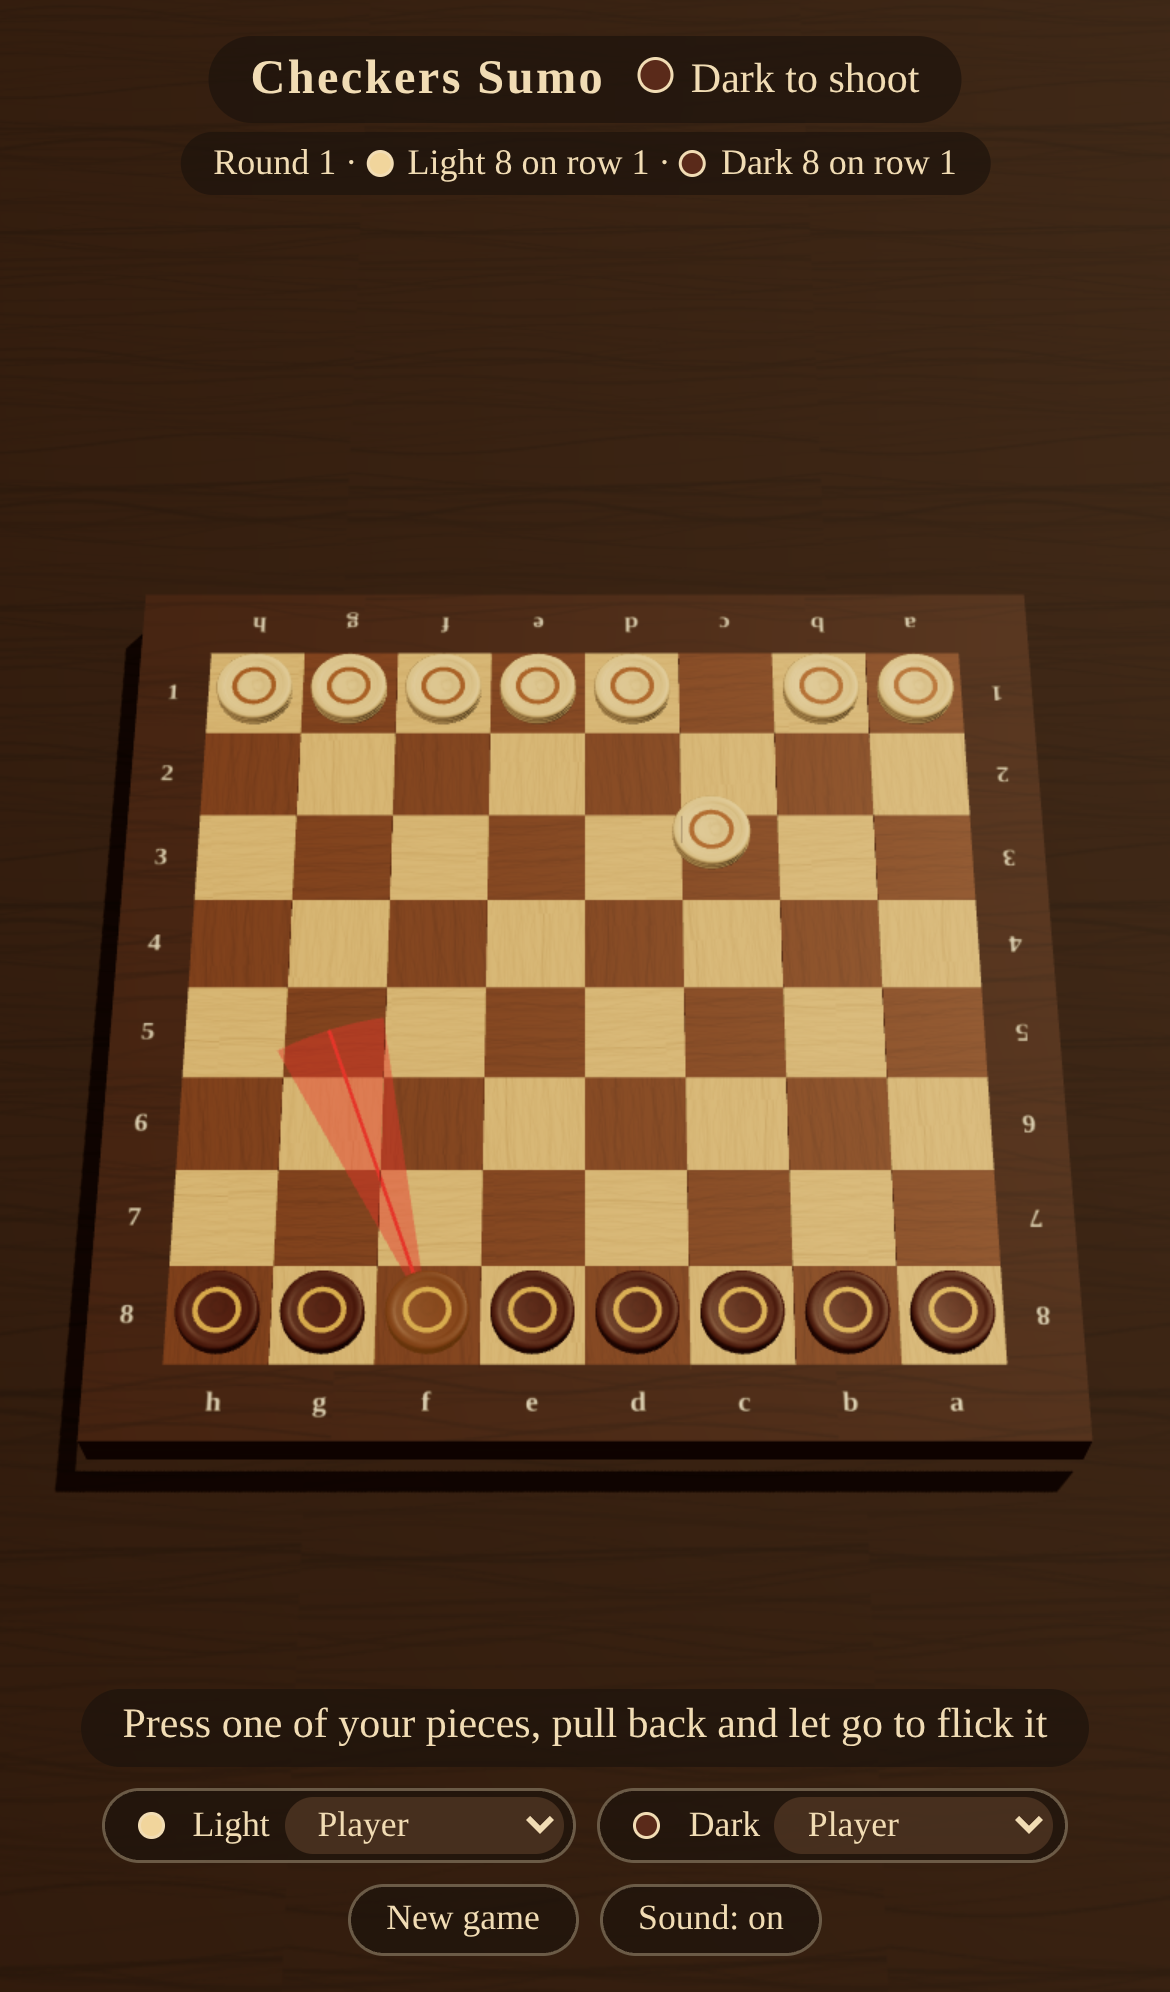
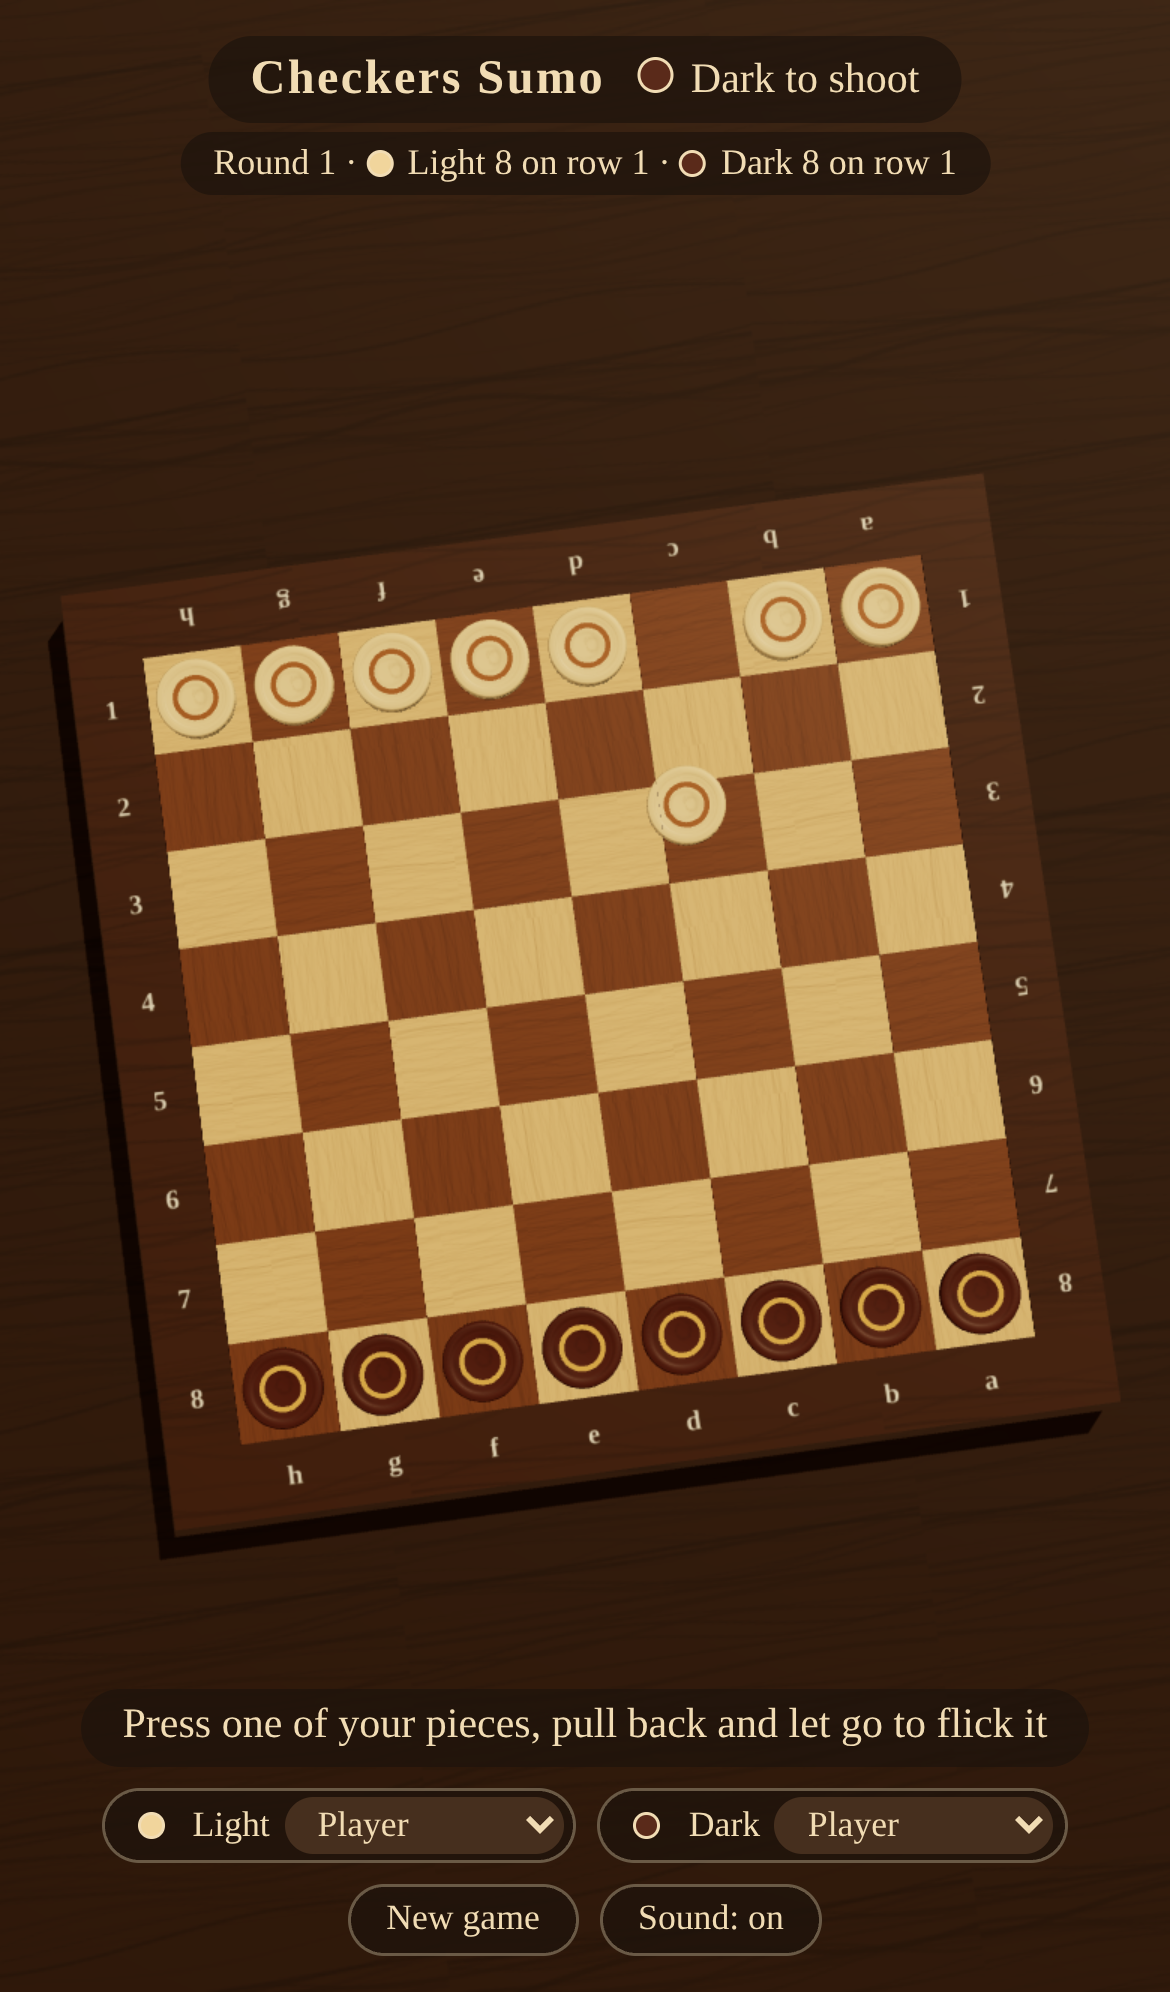
Widen the flick spread, let the loser open the next round, fix mobile board flicker (#4)
* Widen the flick spread, let the loser open the next round, add a bot tournament

- Every flick now scatters up to 5° either way at the softest and 15° at full power
  (was 3° to 10°); the aim sector follows the same setting.
- The loser of a round shoots first in the next one, so a winner cannot sweep round after
  round without the opponent getting a shot.
- Describe the game as Checkers Sumo only, and add a test that keeps the old historical name
  out of every tracked file in any spelling.
- scripts/tournament.js (npm run tournament) plays bot against bot headlessly.

Claude-Session: https://claude.ai/code/session_015uFG4wvmajGJfzZy4KP3Be

* Stop the board flickering in stripes on phones

The frame was one solid block under the cells, its top 0.001 below theirs. Phone GPUs often
keep depth too coarsely to tell those surfaces apart, so the frame showed through in stripes
that moved with the camera. The frame is now a ring around the cells with a hidden base below
them, and the labels, aim sector and checker inlays get a depth offset for the same reason.

Claude-Session: https://claude.ai/code/session_015uFG4wvmajGJfzZy4KP3Be

* Make the Medium bot test repeatable

Medium scores shots by averaging randomly scattered imagined flicks. With the wider spread a
lucky sample now and then favoured an off-centre shot that misses when replayed exactly, so the
test failed about once in 40 runs. It now uses a fixed random sequence.
[…]

Changed region(s): [[0.0308, 0.249, 0.9538, 0.7781]]

diff --git a/scripts/tournament.js b/scripts/tournament.js
@@ -1,0 +1,74 @@
+// Plays bot against bot without rendering and prints the score.
+// Usage: node scripts/tournament.js [games=50] [levelA=medium] [levelB=easy]
+import { availableParallelism } from 'node:os';
+import { Worker, isMainThread, parentPort, workerData } from 'node:worker_threads';
+import { DARK, LIGHT } from '../src/game/constants.js';
+import { DRAW, newMatch, nextRound, playShot } from '../src/game/rules.js';
+import { bestShot, fumbleAim } from '../src/players/bot.js';
+
+// A game that runs this long is stuck (say, two pieces that keep missing each other).
+const MAX_SHOTS = 2000;
+
+function playGame(levels) {
+  let state = newMatch();
+  let shots = 0;
+  let replays = 0;
+  while (!state.matchWinner) {
+    if (state.roundWinner) {
+      if (state.roundWinner === DRAW) replays++;
+      state = nextRound(state);
+    }
+    if (++shots > MAX_SHOTS) return { winner: null, shots, replays, rounds: state.round };
+    const level = levels[state.turn];
+    const best = bestShot(state, level);
+    state = playShot(state, fumbleAim(best.shot, level)).state;
+  }
+  return { winner: state.matchWinner, shots, replays, rounds: state.round };
+}
+
+if (!isMainThread) {
+  parentPort.on('message', (game) => {
+    if (game === null) return process.exit(0);
+    const { a, b } = workerData;
+    // Alternate who plays Light, and so who shoots first.
+    const levels = game % 2 === 0 ? { [LIGHT]: a, [DARK]: b } : { [LIGHT]: b, [DARK]: a };
+    const result = playGame(levels);
+    const winner = result.winner && levels[result.winner];
+    parentPort.postMessage({ game, first: levels[LIGHT], ...result, winner });
+  });
+} else {
+  const games = Number(process.argv[2] ?? 50);
+  const a = process.argv[3] ?? 'medium';
+  const b = process.argv[4] ?? 'easy';
+  const results = [];
+  let next = 0;
+  const threads = Math.min(availableParallelism(), games);
+  await Promise.all(
+    Array.from({ length: threads }, () => {
+      const worker = new Worker(new URL(import.meta.url), { workerData: { a, b } });
+      return new Promise((resolve) => {
+        const feed = () => worker.postMessage(next < games ? next++ : null);
+        worker.on('message', (r) => {
+          results.push(r);
+          console.log(
+            `game ${r.game + 1}: ${r.first} first, ${r.winner ?? 'unfinished'} wins, ` +
+              `${r.rounds} rounds, ${r.shots} shots, ${r.replays} replays`,
+          );
+          feed();
+        });
+        worker.on('exit', resolve);
+        feed();
+      });
+    }),
+  );
+  const count = (f) => results.filter(f).length;
+  console.log(`\n${games} games, ${a} vs ${b}`);
+  for (const level of [a, b]) {
+    console.log(
+      `${level}: ${count((r) => r.winner === level)} wins ` +
+        `(${count((r) => r.winner === level && r.first === level)} when shooting first)`,
+    );
+  }
+  console.log(`unfinished: ${count((r) => !r.winner)}`);
+  console.log(`replayed rounds: ${results.reduce((n, r) => n + r.replays, 0)}`);
+}

diff --git a/src/render/boardView.js b/src/render/boardView.js
@@ -32,18 +32,36 @@ function buildSquares() {
 }
 
 // The frame is flush with the cells, so pieces slide onto it and stay in play until they pass
-// its outer edge.
+// its outer edge. It is a ring around the cells rather than a block under them: two surfaces this
+// close together flicker through each other on GPUs with a coarse depth buffer, as on many phones.
 function buildFrame() {
-  const size = PLAY_HALF * 2;
   const height = SQUARE_HEIGHT + BASE_HEIGHT;
-  const frame = new THREE.Mesh(
-    new THREE.BoxGeometry(size, height, size),
-    woodMaterial(PALETTE.frame, { seed: 7, repeat: 2, roughness: 0.6 }),
-  );
-  // A hair below the cells' tops, so the cells always win the depth test where they overlap.
-  frame.position.y = -height / 2 - 0.001;
-  frame.castShadow = true;
-  frame.receiveShadow = true;
+  const material = woodMaterial(PALETTE.frame, { seed: 7, repeat: 2, roughness: 0.6 });
+  const square = (half) =>
+    new THREE.Path()
+      .moveTo(-half, -half)
+      .lineTo(half, -half)
+      .lineTo(half, half)
+      .lineTo(-half, half);
+  const outline = new THREE.Shape(square(PLAY_HALF).getPoints());
+  outline.holes.push(square(HALF));
+  const ringGeometry = new THREE.ExtrudeGeometry(outline, { depth: height, bevelEnabled: false });
+  // Extruded UVs are in board units; bring them to 0..1 across the frame like a box's top.
+  const uv = ringGeometry.attributes.uv;
+  for (let i = 0; i < uv.count; i++) {
+    uv.setXY(i, uv.getX(i) / (PLAY_HALF * 2) + 0.5, uv.getY(i) / (PLAY_HALF * 2) + 0.5);
+  }
+  ringGeometry.rotateX(Math.PI / 2);
+  const ring = new THREE.Mesh(ringGeometry, material);
+  // Under the cells, out of sight, so nothing shows through a gap between them.
+  const base = new THREE.Mesh(new THREE.BoxGeometry(HALF * 2, BASE_HEIGHT, HALF * 2), material);
+  base.position.y = -SQUARE_HEIGHT - BASE_HEIGHT / 2;
+  const frame = new THREE.Group();
+  for (const mesh of [ring, base]) {
+    mesh.castShadow = true;
+    mesh.receiveShadow = true;
+    frame.add(mesh);
+  }
   return frame;
 }
 
@@ -63,6 +81,10 @@ function labelMesh(text) {
     map: texture,
     transparent: true,
     depthWrite: false,
+    // Lifted in depth too, or a coarse depth buffer lets the frame poke through the letters.
+    polygonOffset: true,
+    polygonOffsetFactor: -2,
+    polygonOffsetUnits: -4,
   });
   const mesh = new THREE.Mesh(new THREE.PlaneGeometry(0.4, 0.4), material);
   mesh.rotation.x = -Math.PI / 2;

diff --git a/tests/rules.test.js b/tests/rules.test.js
@@ -69,14 +69,14 @@ describe('playShot', () => {
     expect(state.turn).toBe(DARK);
   });
 
-  it('ends the round when one side has no pieces left, and the winner starts the next one', () => {
+  it('ends the round when one side has no pieces left, and the loser starts the next one', () => {
     const start = position([piece(0, LIGHT, 0, 0), piece(1, DARK, 0, -3.5)]);
     const { state } = playShot(start, knockout, exact);
     expect(state.roundWinner).toBe(LIGHT);
     expect(state.nextRows).toEqual({ [LIGHT]: 1, [DARK]: 0 });
     const round2 = nextRound(state);
     expect(round2.round).toBe(2);
-    expect(round2.turn).toBe(LIGHT);
+    expect(round2.turn).toBe(DARK);
     expect(countPieces(round2.pieces, LIGHT)).toBe(8);
     expect(round2.pieces.find((p) => p.color === LIGHT).z).toBe(2.5);
   });
@@ -122,10 +122,10 @@ describe('rowsAfterRound', () => {
 describe('scatterShot', () => {
   const degreesOff = (shot) => (Math.abs(Math.atan2(shot.vx, -shot.vz)) * 180) / Math.PI;
 
-  it('turns a weak flick by at most 3 degrees and a full-power one by at most 10', () => {
+  it('turns a weak flick by at most 5 degrees and a full-power one by at most 15', () => {
     for (const random of [() => 0, () => 1]) {
-      expect(degreesOff(scatterShot({ pieceId: 0, vx: 0, vz: -0.001 }, random))).toBeCloseTo(3);
-      expect(degreesOff(scatterShot({ pieceId: 0, vx: 0, vz: -11 }, random))).toBeCloseTo(10);
+      expect(degreesOff(scatterShot({ pieceId: 0, vx: 0, vz: -0.001 }, random))).toBeCloseTo(5);
+      expect(degreesOff(scatterShot({ pieceId: 0, vx: 0, vz: -11 }, random))).toBeCloseTo(15);
     }
   });
 
@@ -133,7 +133,7 @@ describe('scatterShot', () => {
     for (let i = 0; i < 50; i++) {
       const shot = scatterShot({ pieceId: 0, vx: 0, vz: -50 });
       expect(Math.hypot(shot.vx, shot.vz)).toBeCloseTo(11);
-      expect(degreesOff(shot)).toBeLessThanOrEqual(10.0001);
+      expect(degreesOff(shot)).toBeLessThanOrEqual(15.0001);
     }
   });
 

diff --git a/src/game/rules.js b/src/game/rules.js
@@ -75,8 +75,8 @@ export function shotError(state, { pieceId, vx, vz }) {
 
 // A real flick never goes exactly where it was aimed, and the harder it is the further off it can
 // go: up to this many degrees either way at the weakest and the strongest shot.
-export const MIN_SPREAD_DEGREES = 3;
-export const MAX_SPREAD_DEGREES = 10;
+export const MIN_SPREAD_DEGREES = 5;
+export const MAX_SPREAD_DEGREES = 15;
 
 export const spreadDegrees = (power) =>
   MIN_SPREAD_DEGREES + (MAX_SPREAD_DEGREES - MIN_SPREAD_DEGREES) * power;
@@ -91,7 +91,7 @@ export function scatterShot({ pieceId, vx, vz }, random = Math.random) {
 
 /**
  * Plays `shot` for the side to move, as aimed but scattered by `random`, and applies the
- * Chapaev rules to the result. Returns the new state, the shot as actually played and the
+ * game rules to the result. Returns the new state, the shot as actually played and the
  * simulation, which the renderer replays.
  */
 export function playShot(state, shot, { random = Math.random } = {}) {
@@ -127,7 +127,8 @@ export function playShot(state, shot, { random = Math.random } = {}) {
       const winner = lightLeft > 0 ? LIGHT : DARK;
       next.roundWinner = winner;
       next.nextRows = rowsAfterRound(state.rows, winner);
-      next.turn = winner;
+      // The loser opens the next round, so a winner cannot sweep round after round unanswered.
+      next.turn = opponent(winner);
       if (next.nextRows[opponent(winner)] < 0) next.matchWinner = winner;
     }
   }

diff --git a/tests/bot.test.js b/tests/bot.test.js
@@ -6,6 +6,14 @@ import { EASY, LEVELS, MEDIUM, bestShot, candidateShots, fumbleAim } from '../sr
 const piece = (id, color, x, z) => ({ id, color, x, z, onBoard: true });
 const position = (pieces) => ({ ...newMatch(), pieces });
 const exact = { random: () => 0.5 };
+// Medium imagines randomly scattered shots; a fixed sequence keeps its choice repeatable.
+function seeded(seed = 1) {
+  let a = seed;
+  return () => {
+    a = (a * 1664525 + 1013904223) % 4294967296;
+    return a / 4294967296;
+  };
+}
 const shotsFrom = (shots, id) => shots.filter((s) => s.pieceId === id);
 const straightAhead = (shot) => Math.abs(shot.vx) < 1e-9 && shot.vz < 0;
 
@@ -16,7 +24,7 @@ const sitter = () =>
 describe('bots', () => {
   for (const level of [EASY, MEDIUM]) {
     it(`${level} knocks off a piece that is easy to hit`, () => {
-      const { shot, score } = bestShot(sitter(), level);
+      const { shot, score } = bestShot(sitter(), level, { random: seeded() });
       expect(score).toBeGreaterThan(0.5);
       const { state } = playShot(sitter(), shot, exact);
       expect(state.lastShot.knockedOff).toBe(1);

diff --git a/tests/naming.test.js b/tests/naming.test.js
@@ -1,0 +1,19 @@
+import { execFileSync } from 'node:child_process';
+import { readFileSync } from 'node:fs';
+import { describe, expect, it } from 'vitest';
+
+// The game is Checkers Sumo only: it must never carry the name of the historical figure the
+// classic flick-checkers game is named after, in any spelling or alphabet.
+const forbidden = [/t?ch[ae]p[ae][iy]?[ey]?[vwf]/i, /ч[а]па[её]в/i];
+
+describe('naming', () => {
+  it('keeps the old name out of every tracked file', () => {
+    const files = execFileSync('git', ['ls-files'], { encoding: 'utf8' }).split('\n');
+    const offenders = files.filter((file) => {
+      if (!file || /\.(png|jpe?g|webp|ico)$/i.test(file)) return false;
+      const text = readFileSync(file, 'utf8');
+      return forbidden.some((pattern) => pattern.test(text));
+    });
+    expect(offenders).toEqual([]);
+  });
+});

diff --git a/src/render/aim.js b/src/render/aim.js
@@ -21,9 +21,16 @@ function buildSector() {
     side: THREE.DoubleSide,
     polygonOffset: true,
     polygonOffsetFactor: -2,
+    polygonOffsetUnits: -4,
   });
   const fill = new THREE.Mesh(new THREE.BufferGeometry(), material);
-  const lineMaterial = new THREE.MeshBasicMaterial({ color: PALETTE.aimWeak, depthWrite: false });
+  const lineMaterial = new THREE.MeshBasicMaterial({
+    color: PALETTE.aimWeak,
+    depthWrite: false,
+    polygonOffset: true,
+    polygonOffsetFactor: -2,
+    polygonOffsetUnits: -4,
+  });
   const line = new THREE.Mesh(new THREE.PlaneGeometry(1, 0.035), lineMaterial);
   line.rotation.x = -Math.PI / 2;
   const sector = new THREE.Group();

diff --git a/src/main.js b/src/main.js
@@ -117,8 +117,9 @@ function showRoundOver() {
     const pushed = nextRows[loser] < state.rows[loser];
     title = `${NAMES[roundWinner]} wins round ${state.round}`;
     text =
-      `${NAMES[roundWinner]} moves up to row ${nextRows[roundWinner] + 1} and starts the next round.` +
-      (pushed ? ` ${NAMES[loser]} is pushed back to row ${nextRows[loser] + 1}.` : '');
+      `${NAMES[roundWinner]} moves up to row ${nextRows[roundWinner] + 1} .` +
+      (pushed ? ` ${NAMES[loser]} is pushed back to row ${nextRows[loser] + 1}.` : '') +
+      ` ${NAMES[loser]} starts the next round.`;
     button = 'Next round';
   }
   $('round-title').textContent = title;

diff --git a/src/render/piecesView.js b/src/render/piecesView.js
@@ -44,7 +44,15 @@ function inlayGeometry() {
 function buildMaterials() {
   const make = (body, inlay, seed) => ({
     body: woodMaterial(body, { seed, roughness: 0.45 }),
-    inlay: new THREE.MeshStandardMaterial({ color: inlay, roughness: 0.4, metalness: 0.1 }),
+    inlay: new THREE.MeshStandardMaterial({
+      color: inlay,
+      roughness: 0.4,
+      metalness: 0.1,
+      // The ring floats a hair above the dish; this keeps it on top with a coarse depth buffer.
+      polygonOffset: true,
+      polygonOffsetFactor: -2,
+      polygonOffsetUnits: -4,
+    }),
   });
   return {
     light: make(PALETTE.lightPiece, PALETTE.lightPieceInlay, 13),

diff --git a/README.md b/README.md
@@ -1,7 +1,7 @@
 # Checkers Sumo
 
-Flick your checkers to knock your opponent's off the board. A browser game based on the
-traditional Chapaev rules, rendered in 3D with [three.js](https://threejs.org/).
+Flick your checkers to knock your opponent's off the board. A browser board game,
+rendered in 3D with [three.js](https://threejs.org/).
 
 **Play it:** https://templarrr.github.io/checkers_sumo/ (once GitHub Pages is switched on, see
 [Deploying](#deploying-to-github-pages))
@@ -17,12 +17,13 @@ traditional Chapaev rules, rendered in 3D with [three.js](https://threejs.org/).
 - On your turn you flick one of your own checkers. The board has a wooden frame around the
   cells; a checker that stops on the frame is still in play. Every checker whose centre ends up
   past the outer edge of the frame falls off and is out of the round.
-- A flick never goes exactly where you aimed: it turns by a random angle of up to 3° either way
-  for the softest shot, growing to 10° for a full-strength one.
+- A flick never goes exactly where you aimed: it turns by a random angle of up to 5° either way
+  for the softest shot, growing to 15° for a full-strength one.
 - If your shot knocks off at least one enemy checker and none of your own, you shoot again.
   Otherwise the turn passes to your opponent.
-- The round ends when only one colour is left on the board. The winner starts the next round,
-  and their checkers line up one row further forward. The loser stays where they were.
+- The round ends when only one colour is left on the board. The winner's checkers line up one
+  row further forward and the loser stays where they were; the loser shoots first in the next
+  round.
 - Once the two lines would meet, winning a round still moves you forward one row, and the loser
   is pushed back one row instead.
 - When the loser has no row left to be pushed back to, the winner has crossed the whole board
@@ -80,7 +81,7 @@ Code style is enforced with [ESLint](https://eslint.org/) for code quality and
 
 - `src/game/`: the game itself, with no rendering. `physics.js` plays out a flick
   deterministically (sliding friction, checker collisions, falling off the edge); `rules.js`
-  turns the result into Chapaev rules: whose turn it is, rounds, rows and the winner.
+  turns the result into the game rules: whose turn it is, rounds, rows and the winner.
 - `src/render/`: three.js scene, board, checkers, shot replay and the slingshot aiming.
 - `src/players/`: who chooses the shots: the human (one instance serves both sides in hot seat)
   and the bots.
@@ -107,6 +108,10 @@ their own lost, with a tiny bonus for enemy checkers left near the edge to break
 Medium tries well over 100,000 shots on a full board, so the search runs in Web Workers
 (`src/players/botPlayer.js`), split across the CPU's cores, and the page keeps animating while a
 bot thinks. A Hard bot would be another entry in `LEVELS` in `bot.js`.
+
+To compare bots, `npm run tournament -- 50 medium easy` plays 50 games between them without
+rendering, alternating who shoots first, and prints the wins for each. It uses every CPU core
+and takes a while: a Medium vs Easy game is a few minutes of search on one core.
 
 ## Deploying to GitHub Pages
 
